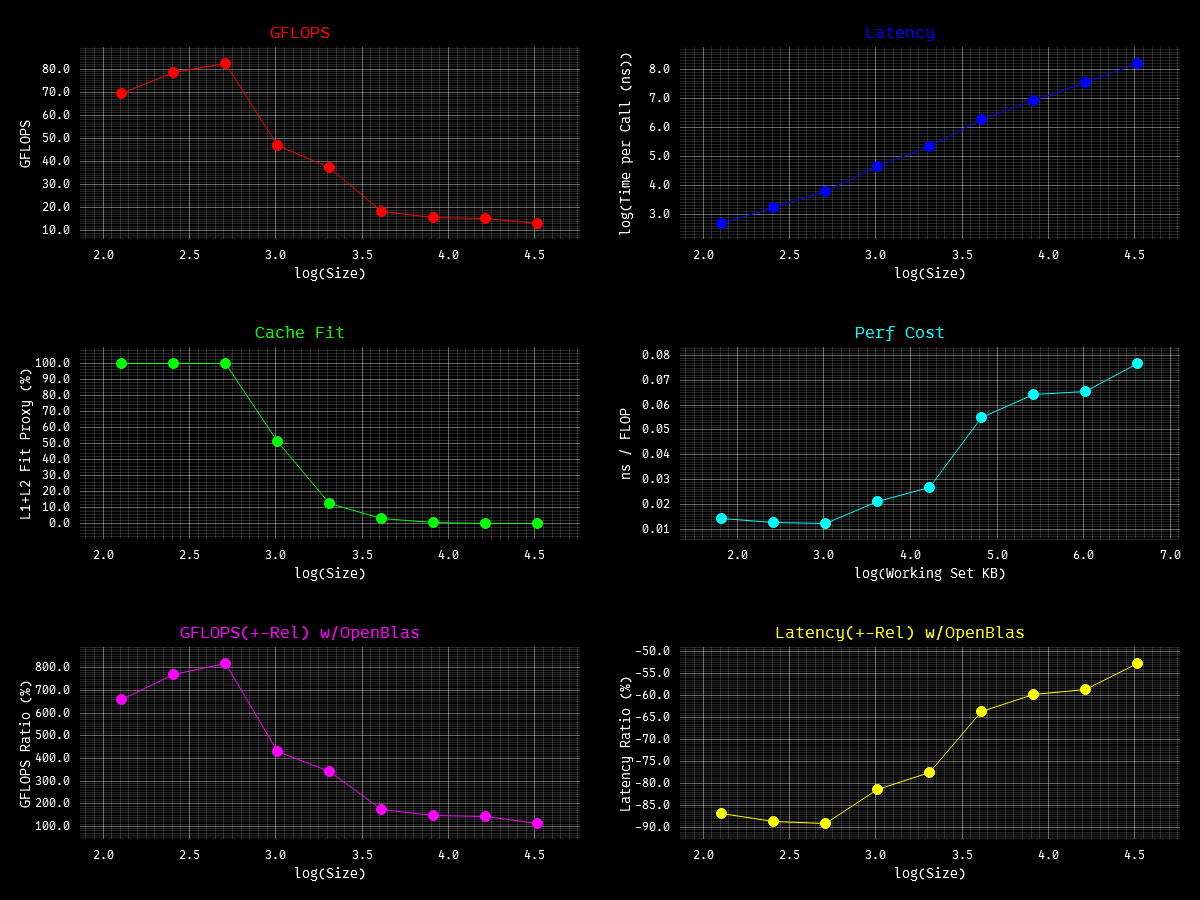
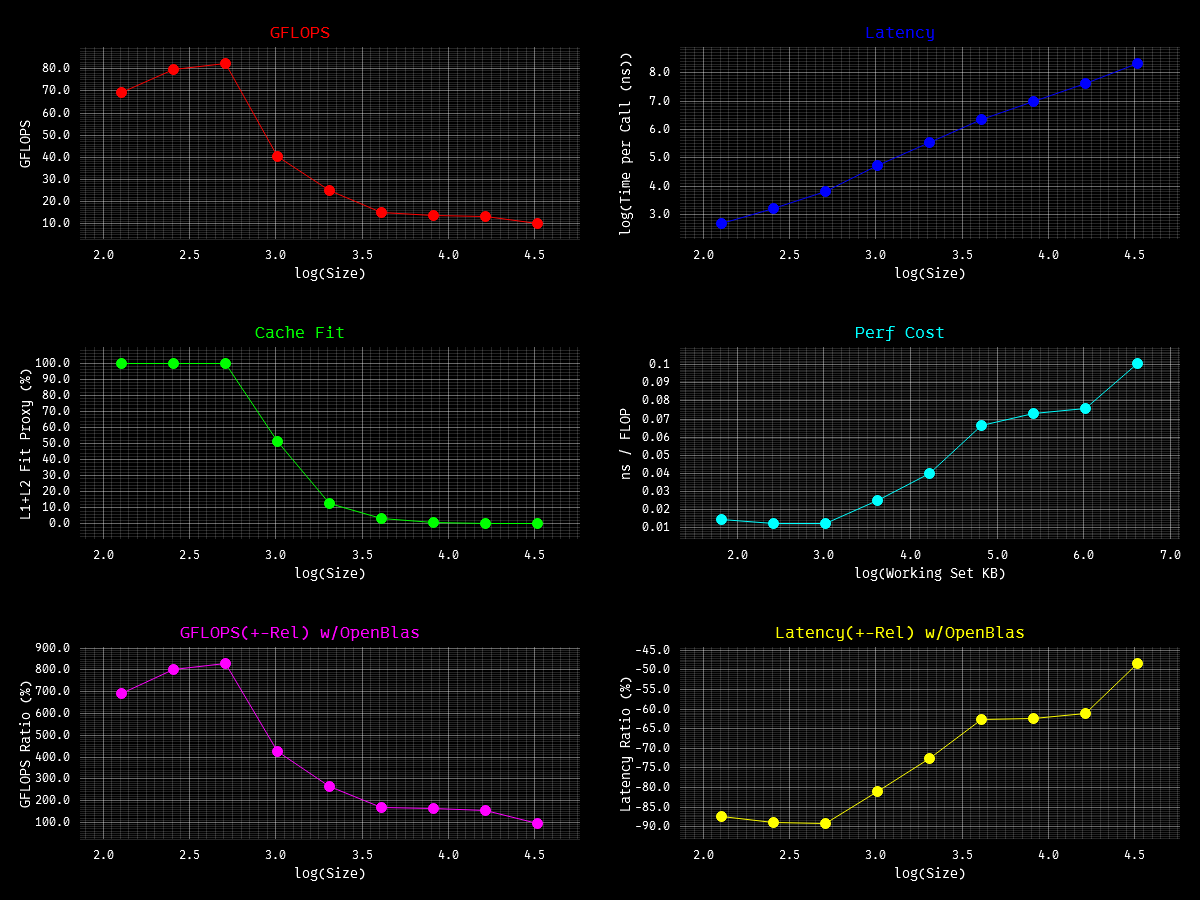
chore: prefetch tweak

diff --git a/src/lvl1.rs b/src/lvl1.rs
@@ -1,4 +1,5 @@
 use crate::utils::reduce_f32;
+use std::arch::x86_64::_MM_HINT_T0;
 #[allow(unused_imports)]
 use std::arch::x86_64::{
     __m256i, _CMP_GT_OQ, _CMP_LT_OQ, _MM_HINT_ET0, _MM_HINT_NTA, _MM_HINT_T1, _MM_HINT_T2,
@@ -71,8 +72,10 @@ pub fn axpy(n: usize, alpha: f32, x: &[f32], incx: i32, y: &mut [f32], incy: i32
 
                 i += 32;
 
-                _mm_prefetch(x_ptr.add(i + 96) as *const i8, _MM_HINT_T2);
-                _mm_prefetch(y_ptr.add(i + 96) as *const i8, _MM_HINT_NTA);
+                {
+                    _mm_prefetch(x_ptr.add(i + 256) as *const i8, _MM_HINT_T0);
+                    _mm_prefetch(y_ptr.add(i + 256) as *const i8, _MM_HINT_T0);
+                }
             }
 
             // Handle one AVX register at a time.
@@ -187,10 +190,10 @@ pub unsafe fn axpy_unsafe(n: usize, alpha: f32, x: &[f32], incx: i32, y: &mut [f
 
                 i += 32;
 
-                // I don't know, how to rightfully use this
-
-                _mm_prefetch(x_ptr.add(i + 96) as *const i8, _MM_HINT_T2);
-                _mm_prefetch(y_ptr.add(i + 96) as *const i8, _MM_HINT_NTA);
+                {
+                    _mm_prefetch(x_ptr.add(i + 256) as *const i8, _MM_HINT_T0);
+                    _mm_prefetch(y_ptr.add(i + 256) as *const i8, _MM_HINT_T0);
+                }
             }
 
             // Handle one AVX register at a time.
@@ -756,8 +759,8 @@ pub fn dot(n: usize, x: &[f32], incx: i32, y: &[f32], incy: i32) -> f32 {
 
                 i += 32;
 
-                _mm_prefetch(x_ptr.add(i + 64) as *const i8, _MM_HINT_T1);
-                _mm_prefetch(y_ptr.add(i + 64) as *const i8, _MM_HINT_T1);
+                _mm_prefetch(x_ptr.add(i + 128) as *const i8, _MM_HINT_T1);
+                _mm_prefetch(y_ptr.add(i + 128) as *const i8, _MM_HINT_T1);
             }
 
             while i + 8 <= n {
@@ -868,8 +871,8 @@ pub unsafe fn dot_unsafe(n: usize, x: &[f32], incx: i32, y: &[f32], incy: i32) -
 
                 i += 32;
 
-                _mm_prefetch(x_ptr.add(i + 48) as *const i8, _MM_HINT_T1);
-                _mm_prefetch(y_ptr.add(i + 48) as *const i8, _MM_HINT_T1);
+                _mm_prefetch(x_ptr.add(i + 128) as *const i8, _MM_HINT_T1);
+                _mm_prefetch(y_ptr.add(i + 128) as *const i8, _MM_HINT_T1);
             }
 
             while i + 8 <= n {
@@ -1063,7 +1066,7 @@ pub fn nrm2_unsafe(n: usize, x: &[f32], incx: i32) -> f32 {
 
                 i += 32;
 
-                _mm_prefetch(x_ptr.add(i + 64) as *const i8, _MM_HINT_T2);
+                _mm_prefetch(x_ptr.add(i + 256) as *const i8, _MM_HINT_T2);
             }
         }
 
@@ -1166,7 +1169,7 @@ pub fn asum(n: usize, x: &[f32], incx: i32) -> f32 {
 
                 i += 32;
 
-                _mm_prefetch(x_ptr.add(i + 64) as *const i8, _MM_HINT_NTA);
+                _mm_prefetch(x_ptr.add(i + 256) as *const i8, _MM_HINT_T2);
             }
         }
 
@@ -1258,7 +1261,7 @@ pub fn asum_unsafe(n: usize, x: &[f32], incx: i32) -> f32 {
 
                 i += 32;
 
-                _mm_prefetch(x_ptr.add(i + 64) as *const i8, _MM_HINT_NTA);
+                _mm_prefetch(x_ptr.add(i + 256) as *const i8, _MM_HINT_NTA);
             }
         }
 
@@ -1404,7 +1407,7 @@ pub fn i_amax(n: usize, x: &[f32], incx: i32) -> usize {
 
                 i += 32;
 
-                _mm_prefetch(x_ptr.add(i + 64) as *const i8, _MM_HINT_NTA);
+                _mm_prefetch(x_ptr.add(i + 256) as *const i8, _MM_HINT_NTA);
             }
 
             let cmp01 = _mm256_cmp_ps(la_vals1, la_vals0, _CMP_GT_OQ);
@@ -1568,7 +1571,7 @@ pub fn i_amin(n: usize, x: &[f32], incx: i32) -> usize {
 
                 i += 32;
 
-                _mm_prefetch(x_ptr.add(i + 64) as *const i8, _MM_HINT_NTA);
+                _mm_prefetch(x_ptr.add(i + 256) as *const i8, _MM_HINT_NTA);
             }
 
             let cmp01 = _mm256_cmp_ps(sm_vals1, sm_vals0, _CMP_LT_OQ);
@@ -1711,8 +1714,8 @@ pub fn rot(n: usize, x: &mut [f32], incx: i32, y: &mut [f32], incy: i32, c: f32,
                 _mm256_storeu_ps(y_ptr.add(i + 24), ry3);
                 i += 32;
 
-                _mm_prefetch(x_ptr.add(i + 64) as *const i8, _MM_HINT_ET0);
-                _mm_prefetch(y_ptr.add(i + 64) as *const i8, _MM_HINT_ET0);
+                _mm_prefetch(x_ptr.add(i + 128) as *const i8, _MM_HINT_ET0);
+                _mm_prefetch(y_ptr.add(i + 128) as *const i8, _MM_HINT_ET0);
             }
             while i + 8 <= n {
                 let x = _mm256_loadu_ps(x_ptr.add(i));
